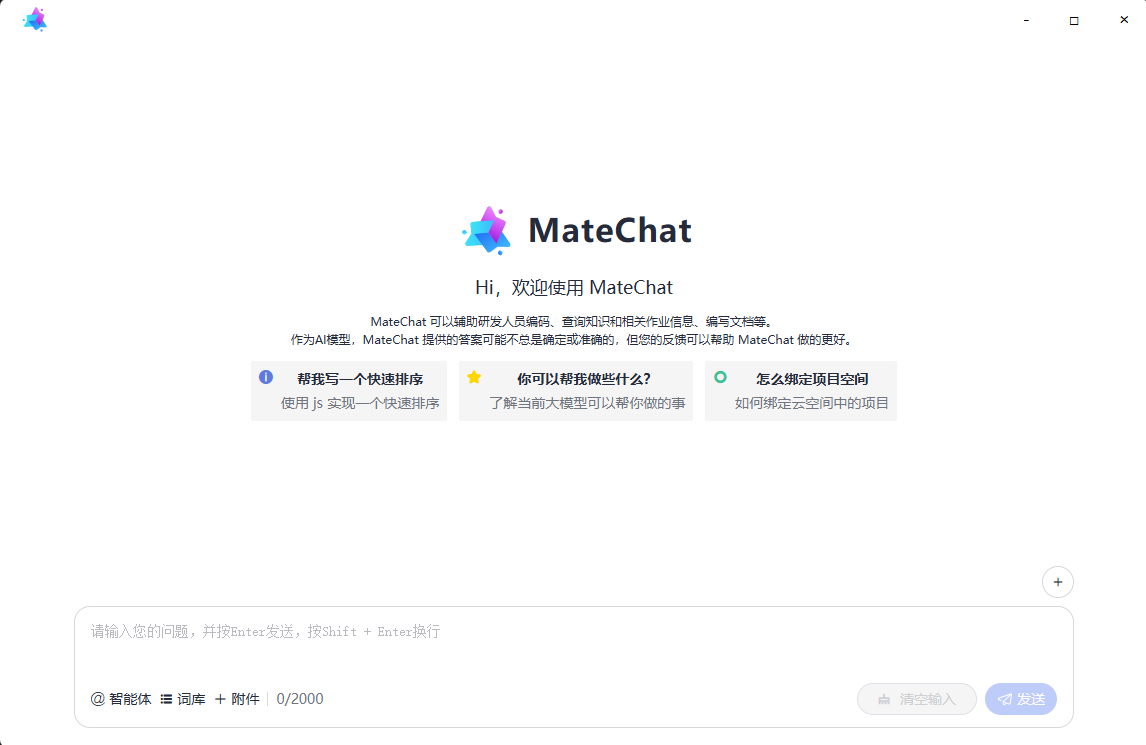
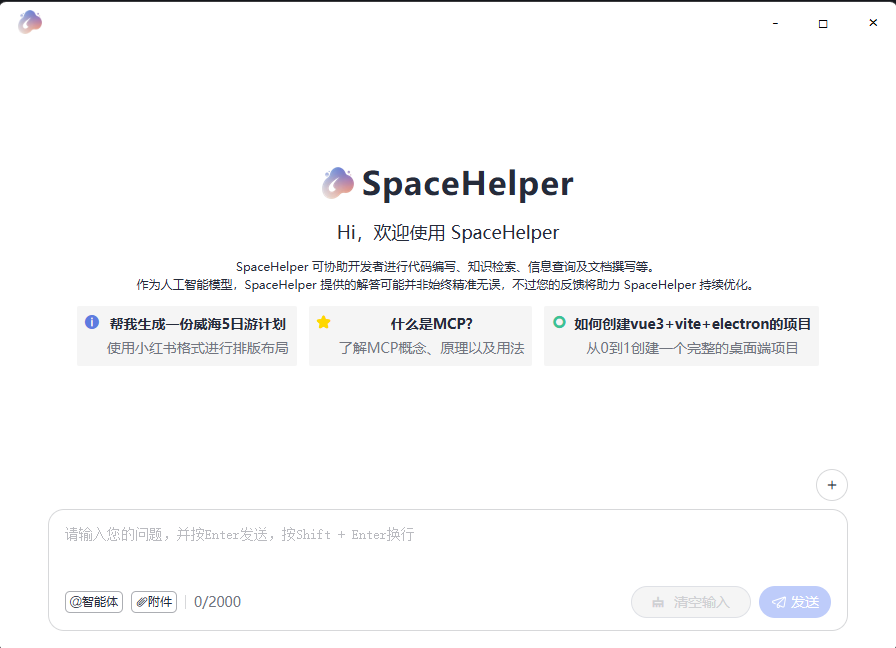
feat: 优化体验细节

diff --git a/src/components/Chat.vue b/src/components/Chat.vue
@@ -5,9 +5,9 @@
       style="display: flex; flex-direction: column; align-items: center; justify-content: center; gap: 12px"
     >
       <McIntroduction
-        :logoImg="'https://matechat.gitcode.com/logo2x.svg'"
-        :title="'MateChat'"
-        :subTitle="'Hi，欢迎使用 MateChat'"
+        :logoImg="logo"
+        :title="'SpaceHelper'"
+        :subTitle="'Hi，欢迎使用 SpaceHelper'"
         :description="description"
       ></McIntroduction>
       <McPrompt
@@ -23,10 +23,10 @@
           v-if="msg.from === 'user'"
           :content="msg.content"
           :align="'right'"
-          :avatarConfig="{ imgSrc: 'https://matechat.gitcode.com/png/demo/userAvatar.svg' }"
+          :avatarConfig="{ imgSrc: logo }"
         >
         </McBubble>
-        <McBubble v-else :loading="msg.loading" :avatarConfig="{ imgSrc: 'https://matechat.gitcode.com/logo.svg' }">
+        <McBubble v-else :loading="msg.loading" :avatarConfig="{ imgSrc: logo }">
           <McMarkdownCard :content="msg.content"></McMarkdownCard>
         </McBubble>
       </template>
@@ -81,6 +81,7 @@ import 'vue-devui/button/style.css';
 import OpenAI from 'openai';
 import { debounce } from 'lodash-es';
 import { ElNotification } from 'element-plus';
+import logo from '../assets/logo-32.png';
 
 const isVisible = ref(false);
 const inputRef = ref();
@@ -93,8 +94,8 @@ let currentListLabel;
 const lastSubmitTime = ref(null); // 上次提交时间
 
 const description = [
-  'MateChat 可以辅助研发人员编码、查询知识和相关作业信息、编写文档等。',
-  '作为AI模型，MateChat 提供的答案可能不总是确定或准确的，但您的反馈可以帮助 MateChat 做的更好。',
+  'SpaceHelper 可协助开发者进行代码编写、知识检索、信息查询及文档撰写等。' ,
+  '作为人工智能模型，SpaceHelper 提供的解答可能并非始终精准无误，不过您的反馈将助力 SpaceHelper 持续优化。'
 ];
 
 const content = ref(`
@@ -143,21 +144,21 @@ const introPrompt = {
   list: [
     {
       value: 'quickSort',
-      label: '帮我写一个快速排序',
+      label: '帮我生成一份威海5日游计划',
       iconConfig: { name: 'icon-info-o', color: '#5e7ce0' },
-      desc: '使用 js 实现一个快速排序',
+      desc: '使用小红书格式进行排版布局',
     },
     {
       value: 'helpMd',
-      label: '你可以帮我做些什么？',
+      label: '什么是MCP?',
       iconConfig: { name: 'icon-star', color: 'rgb(255, 215, 0)' },
-      desc: '了解当前大模型可以帮你做的事',
+      desc: '了解MCP概念、原理以及用法',
     },
     {
       value: 'bindProjectSpace',
-      label: '怎么绑定项目空间',
+      label: '如何创建vue3+vite+electron的项目',
       iconConfig: { name: 'icon-priority', color: '#3ac295' },
-      desc: '如何绑定云空间中的项目',
+      desc: '从0到1创建一个完整的桌面端项目',
     },
   ],
 };
@@ -165,12 +166,12 @@ const simplePrompt = [
   {
     value: 'quickSort',
     iconConfig: { name: 'icon-info-o', color: '#5e7ce0' },
-    label: '帮我写一个快速排序',
+    label: '帮我生成一份威海5日游计划',
   },
   {
     value: 'helpMd',
     iconConfig: { name: 'icon-star', color: 'rgb(255, 215, 0)' },
-    label: '你可以帮我做些什么？',
+    label: '什么是MCP?',
   },
 ];
 const startPage = ref(true);
@@ -269,18 +270,18 @@ const client = new OpenAI({
 
 // 提交信息
 const onSubmit = debounce((evt: any) => {
-  const now = Date.now();
+  // const now = Date.now();
 
-  if (!lastSubmitTime.value || (now - lastSubmitTime.value) > 60000) {
-    lastSubmitTime.value = now;
-  } else {
-    ElNotification({
-      title: 'Warning',
-      message: '60秒内不能重复提交，token限制！',
-      type: 'warning',
-    })
-    return;
-  }
+  // if (!lastSubmitTime.value || (now - lastSubmitTime.value) > 60000) {
+  //   lastSubmitTime.value = now;
+  // } else {
+  //   ElNotification({
+  //     title: 'Warning',
+  //     message: '60秒内不能重复提交，token限制！',
+  //     type: 'warning',
+  //   })
+  //   return;
+  // }
 
   isVisible.value = false;
   if (!evt || evt === "@") return;
@@ -294,26 +295,26 @@ const onSubmit = debounce((evt: any) => {
     avatarConfig: { name: 'user' },
   });
 
-  // setTimeout(() => {
-  //   // 模型返回消息
-  //   messages.value.push({
-  //     from: 'model',
-  //     content: evt,
-  //     loading: true
-  //   });
-  // }, 200);
+  setTimeout(() => {
+    // 模型返回消息
+    messages.value.push({
+      from: 'model',
+      content: evt,
+      loading: true
+    });
+  }, 200);
 
-  // setTimeout(() => {
-  //   // 模型返回消息
-  //   messages.value.pop();
-  //   messages.value.push({
-  //     from: 'model',
-  //     content: content.value,
-  //     loading: false
-  //   });
-  // }, 800);
+  setTimeout(() => {
+    // 模型返回消息
+    messages.value.pop();
+    messages.value.push({
+      from: 'model',
+      content: content.value,
+      loading: false
+    });
+  }, 800);
 
-  fetchData(evt);
+  // fetchData(evt);
 }, 500);
 
 const fetchData = async (ques: any) => {
@@ -360,7 +361,7 @@ const fetchData = async (ques: any) => {
   padding-right: 10px;
 }
 .mc-layout-content.content-container::-webkit-scrollbar-thumb {
-  background: linear-gradient(45deg, #3cd4f9, #e26cf9);
+  background: linear-gradient(45deg, #418a9c, #e7adf3);
   border-radius: 5px;
 }
 .mc-layout-content.content-container::-webkit-scrollbar-thumb {
@@ -424,7 +425,7 @@ const fetchData = async (ques: any) => {
         text-align: left;
     }
     .container .mc-bubble .mc-bubble-content-container {
-        max-width: 60% !important;
+        max-width: 70% !important;
     }
     .border-cls {
       border: 1px solid #acaeb3;

diff --git a/electron.config.js b/electron.config.js
@@ -18,11 +18,11 @@
 
 const currentTime = new Date().getTime().toString();
 module.exports = {
-    productName: "AI Chat",
-    copyright: "Copyright©2025 AI Chat",
+    productName: "SpaceHelper",
+    copyright: "Copyright©2025 SpaceHelper",
     publish: {
         provider: "github", // 自动更新提供商（如 GitHub Releases）
-        token: "",
+        token: "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",
         owner: "Ian-soy",
         updaterCacheDirName: "AI-Chat-updater",
         repo: "AI-Chat",
@@ -76,7 +76,7 @@ module.exports = {
         allowToChangeInstallationDirectory: true, // 允许用户更改安装路径
         createDesktopShortcut: true, // 创建桌面快捷方式
         createStartMenuShortcut: true, // 创建开始菜单快捷方式
-        shortcutName: 'AI Chat', // 自定义快捷方式名称
+        shortcutName: 'SpaceHelper', // 自定义快捷方式名称
         runAfterFinish: false, // 不自动运行安装程序
         include: 'build/installer.nsh', // 自定义nsis安装脚本
         installerIcon: 'public/logo.ico', // 自定义安装图标

diff --git a/public/main/index.js b/public/main/index.js
@@ -23,7 +23,7 @@ electron.app.whenReady().then(() => {
   const mainWindow = new electron.BrowserWindow({
     width: 900,
     height: 650,
-    icon,
+    icon: path__namespace.join(__dirname, "..", "logo.png"),
     titleBarStyle: "hidden",
     // 隐藏原生标题栏
     frame: false,
@@ -48,7 +48,7 @@ electron.app.whenReady().then(() => {
     { label: "显示", click: () => mainWindow.show() },
     { label: "退出", role: "quit" }
   ]);
-  tray.setToolTip("AI Chat");
+  tray.setToolTip("Space Helper");
   tray.setContextMenu(contextMenu);
   electron.ipcMain.on("window-minimize", () => mainWindow.minimize());
   electron.ipcMain.on("window-toggle-maximize", () => {

diff --git a/src/electron/main/index.ts b/src/electron/main/index.ts
@@ -15,7 +15,7 @@ app.whenReady().then(() => {
   const mainWindow = new BrowserWindow({
     width: 900,
     height: 650,
-    icon: icon,
+    icon: path.join(__dirname, '..', "logo.png"),
     titleBarStyle: 'hidden', // 隐藏原生标题栏
     frame: false, // 无边框窗口（可选）
     show: false,
@@ -49,7 +49,7 @@ app.whenReady().then(() => {
     { label: '显示', click: () => mainWindow.show() },
     { label: '退出', role: 'quit' }
   ])
-  tray.setToolTip('AI Chat')
+  tray.setToolTip('Space Helper')
   tray.setContextMenu(contextMenu)
 
   ipcMain.on('window-minimize', () => mainWindow.minimize())

diff --git a/src/components/TitleBar.vue b/src/components/TitleBar.vue
@@ -1,5 +1,6 @@
 <!-- tabbar -->
 <script setup lang="ts">
+    import logo from '../assets/logo-32.png';
     import { ref } from 'vue'
     const isMaximized = ref(false)
 
@@ -18,7 +19,7 @@
 
 <template>
   <div class="title-bar">
-    <McHeader class="logo" :logoImg="'https://matechat.gitcode.com/logo.svg'">
+    <McHeader class="logo" :logoImg="logo">
     </McHeader>
     <div class="controls">
         <button @click="handleMinimize" title="最小化" id="min-btn">－</button>
@@ -72,4 +73,10 @@
   outline: none;
 }
 
+</style>
+
+<style>
+  .title-bar .logo .mc-header-logo {
+    width: 66%;
+  }
 </style>

diff --git a/index.html b/index.html
@@ -4,7 +4,7 @@
     <meta charset="UTF-8" />
     <link rel="icon" type="image/svg+xml" href="/logo.svg" />
     <meta name="viewport" content="width=device-width, initial-scale=1.0" />
-    <title>AI Chat</title>
+    <title>Space Helper</title>
   </head>
   <body>
     <div id="app"></div>

diff --git a/README.md b/README.md
@@ -24,8 +24,6 @@ npm run build:electron
 ![](./public/2.png)
 ![](./public/3.png)
 ![](./public/4.png)
-![](./public/5.png)
-![](./public/6.png)
 
 ## 项目结构
 
